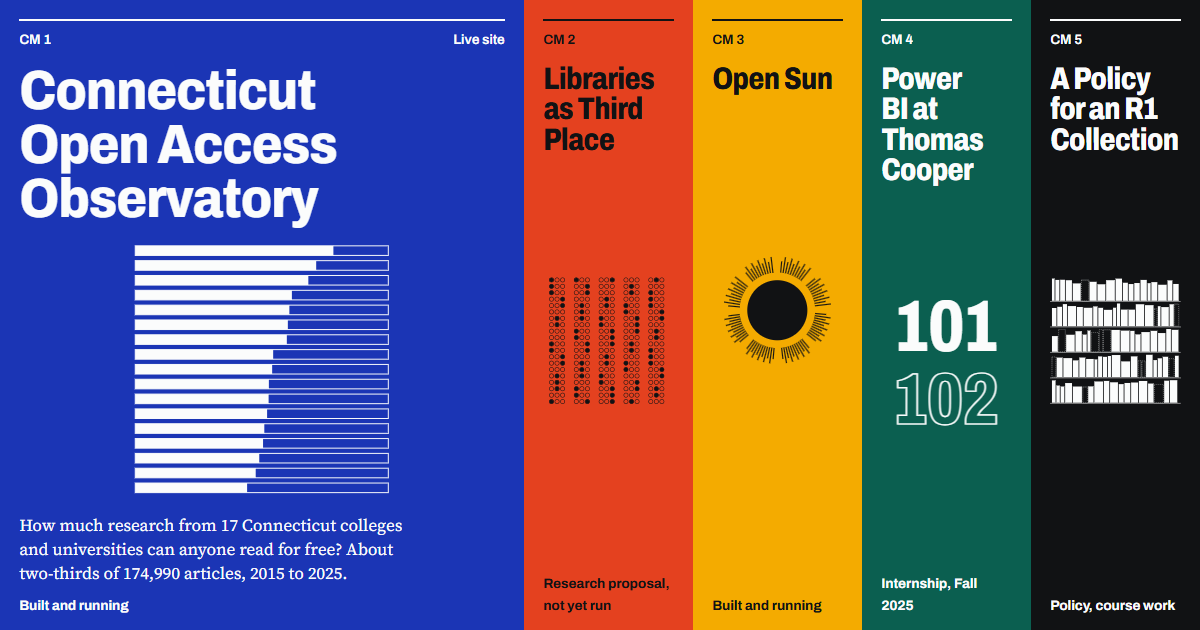
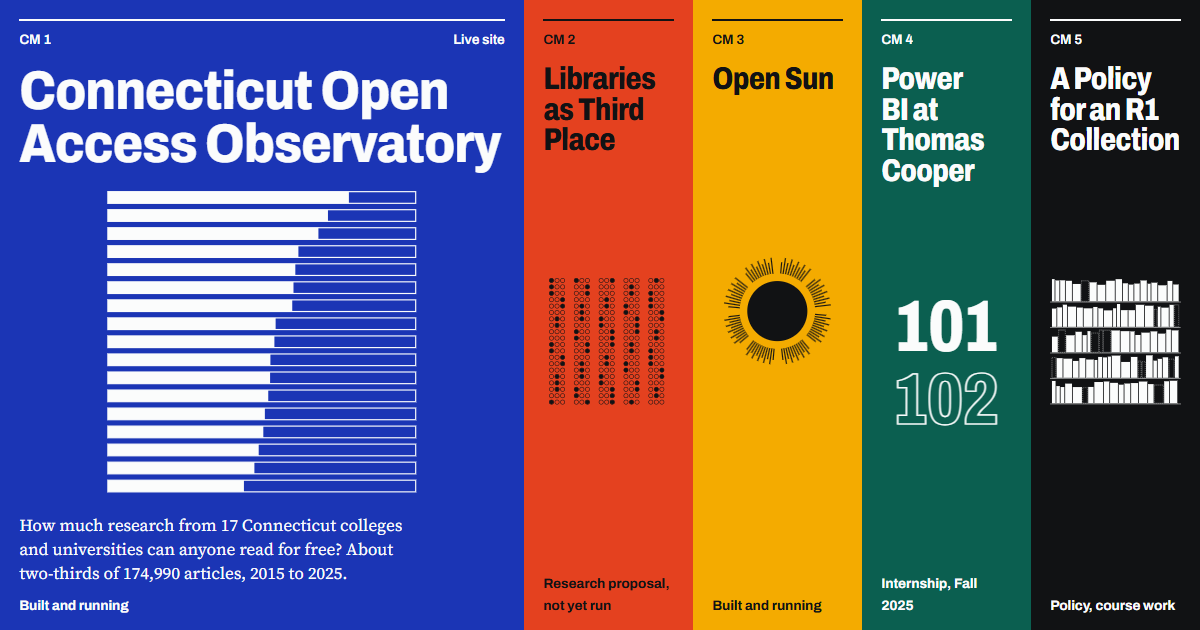
Plain headshot at the larger size; Open Sun text matches the live site
- The headshot's faded edge is removed; it stays 20rem on desktop.
- The Open Sun section now describes only what open-sun.vercel.app
  offers today: 84 items, 8 pathways, search and filters, APA and
  Chicago citations, field guide, new arrivals and RSS, suggestions,
  Microgrid, and the weekly search with a person approving each
  reading. Research guides, lessons, and policies are removed because
  they exist only on an unpublished Open Sun branch.

diff --git a/src/data/site.ts b/src/data/site.ts
@@ -119,25 +119,28 @@ export const projects: Project[] = [
     tag: 'Live site',
     title: 'Open Sun',
     art: 'sun',
-    blurb: 'A free library of open access writing on solarpunk: 84 curated items, eight reading pathways, research guides, lessons, and a daily puzzle.',
+    blurb: 'A free library of open access writing on solarpunk: 84 curated items, eight reading pathways, a field guide, and a daily puzzle.',
     status: 'Built and running',
     facts: [
       ['Collection', '84 items'],
       ['Reading pathways', '8'],
-      ['Guides and lessons', '3 each'],
-      ['Policies', 'Collection development, AI use'],
-      ['Updates', 'Weekly, reviewed by a person'],
+      ['New readings', 'Searched for every week'],
+      ['Review', 'A person approves every reading'],
+      ['Tracking', 'None: no accounts, ads, or cookies'],
     ],
     sections: [
       {
         heading: 'What it is',
-        body: 'A public library for one subject, where everything is free to read. It has search, filters, citations in APA and Chicago, guided pathways, and a field guide of terms. Research guides and short lessons teach people to find open access research, judge sources, and understand what a license lets them reuse, and the library publishes its own collection development policy and AI use statement. A three-minute daily puzzle, Microgrid, gives people a reason to come back.',
+        body: 'A public library for one subject, where everything is free to read. Readers can search and filter by topic, type, year, and language, cite any item in APA or Chicago, follow short guided pathways, and look up ideas in a field guide. New arrivals have their own page and RSS feed, and anyone can suggest a resource. A three-minute daily puzzle, Microgrid, gives people a reason to come back.',
       },
       {
         heading: 'Why I made it',
         body: "I've spent this degree arguing that open systems can provide large amounts of freely accessible information when they're properly structured and maintained. Open Sun is me testing that claim by running one: selecting, describing, and maintaining a collection in public.",
       },
-      { heading: 'How it was built', body: 'Built with AI coding tools; I selected and reviewed the collection.' },
+      {
+        heading: 'How it was built',
+        body: 'Built with AI coding tools; I selected and reviewed the collection. Every Monday, an automated search checks OpenAlex, the Directory of Open Access Journals, and Crossref for new open access work. An AI agent drafts each summary, a second checks it against the source, and I approve every reading before it joins the library.',
+      },
     ],
     links: [{ label: 'Visit Open Sun', href: 'https://open-sun.vercel.app/' }],
   },

diff --git a/src/styles/global.css b/src/styles/global.css
@@ -38,13 +38,7 @@ a { color: inherit; text-underline-offset: .2em; text-decoration-thickness: 1.5p
 /* Intro: the author's photo and a short note, like the inside flap of a book */
 .intro { display: grid; grid-template-columns: 20rem minmax(0, 1fr); grid-template-areas: "label label" "photo text"; gap: 1rem clamp(1.5rem, 3vw, 3rem); padding: .25rem var(--gutter) clamp(1.75rem, 3vw, 2.5rem); }
 .intro-label { grid-area: label; display: flex; justify-content: space-between; gap: 1rem; font: 600 .85rem/1.2 var(--head); border-top: 2px solid var(--ink); padding-top: .5rem; }
-/* The photo's edges fade into the page: two crossed linear masks feather all four sides. */
-.portrait { grid-area: photo; width: 100%; height: auto; aspect-ratio: 1; object-fit: cover; display: block; align-self: center;
-  --feather: 12%;
-  -webkit-mask-image: linear-gradient(to right, transparent, #000 var(--feather), #000 calc(100% - var(--feather)), transparent), linear-gradient(to bottom, transparent, #000 var(--feather), #000 calc(100% - var(--feather)), transparent);
-  -webkit-mask-composite: source-in;
-  mask-image: linear-gradient(to right, transparent, #000 var(--feather), #000 calc(100% - var(--feather)), transparent), linear-gradient(to bottom, transparent, #000 var(--feather), #000 calc(100% - var(--feather)), transparent);
-  mask-composite: intersect; }
+.portrait { grid-area: photo; width: 100%; height: auto; aspect-ratio: 1; object-fit: cover; display: block; align-self: center; }
 .intro-text { grid-area: text; align-self: center; display: grid; grid-template-columns: minmax(0, 7fr) minmax(0, 5fr); gap: 1rem clamp(1.5rem, 3vw, 3rem); align-items: center; }
 .intro h1 { font: 800 clamp(1.9rem, 3vw, 3.1rem)/1.03 var(--head); font-stretch: 84%; letter-spacing: -.02em; text-wrap: balance; }
 .intro-text p { max-width: 46ch; }
